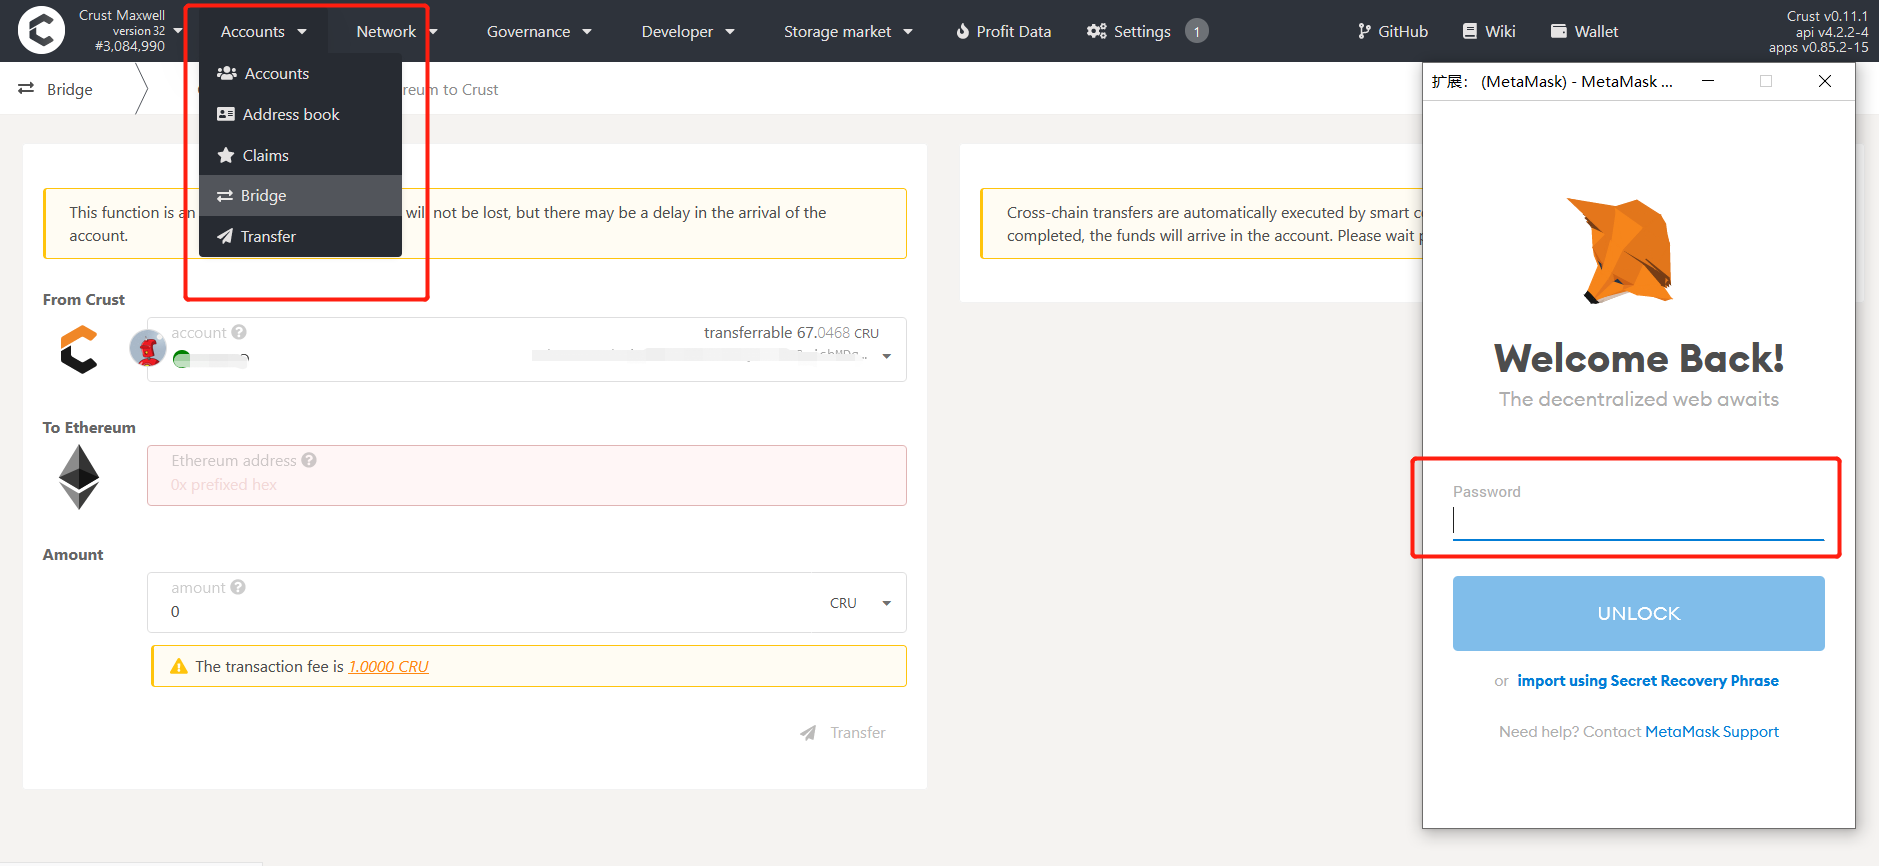
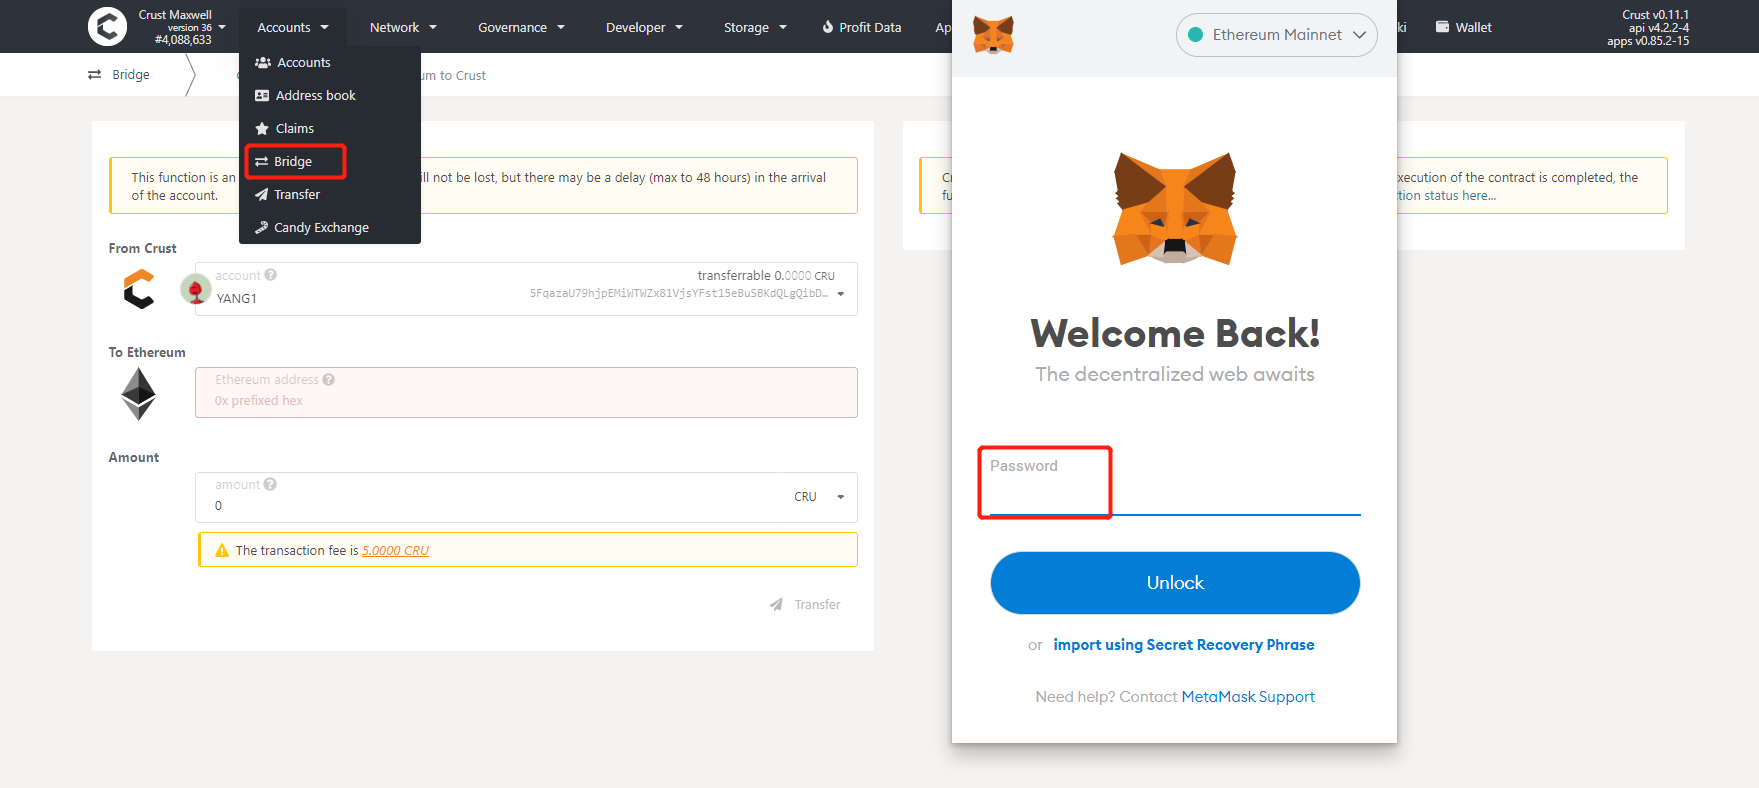
update-maxwell-bridge-fee

diff --git a/docs/bridge.md b/docs/bridge.md
@@ -33,7 +33,7 @@ Choose “Crust to Ethereum”, enter the Ethereum address to receive your CRU i
 
 ![toEthTransfer](assets/general/toEthTransfer.png)
 
-Please note that the transaction is automatically executed through a smart contract, and 1CRU is charged as a transaction fee. Please wait patiently as there might be a certain delay. You can click the link on the right side to check the transaction status.
+Please note that the transaction is automatically executed through a smart contract, and 5CRU is charged as a transaction fee. Please wait patiently as there might be a certain delay. You can click the link on the right side to check the transaction status.
 
 ![toEthCheck](assets/general/toEthCheck.png)
 

diff --git a/website/translated_docs/zh-CN/bridge.md b/website/translated_docs/zh-CN/bridge.md
@@ -33,7 +33,7 @@ Crust Maxwell 提供了一个可以实时到账的资产跨链桥，允许用户
 
 ![toEthTransfer](assets/general/toEthTransfer.png)
 
-注意，转账通过智能合约自动执行，收取1CRU作为手续费。转账可能会存在一定的延时，请耐心等待，可以点击界面右边的链接查看转账状态。
+注意，转账通过智能合约自动执行，收取5CRU作为手续费。转账可能会存在一定的延时，请耐心等待，可以点击界面右边的链接查看转账状态。
 
 ![toEthCheck](assets/general/toEthCheck.png)
 
